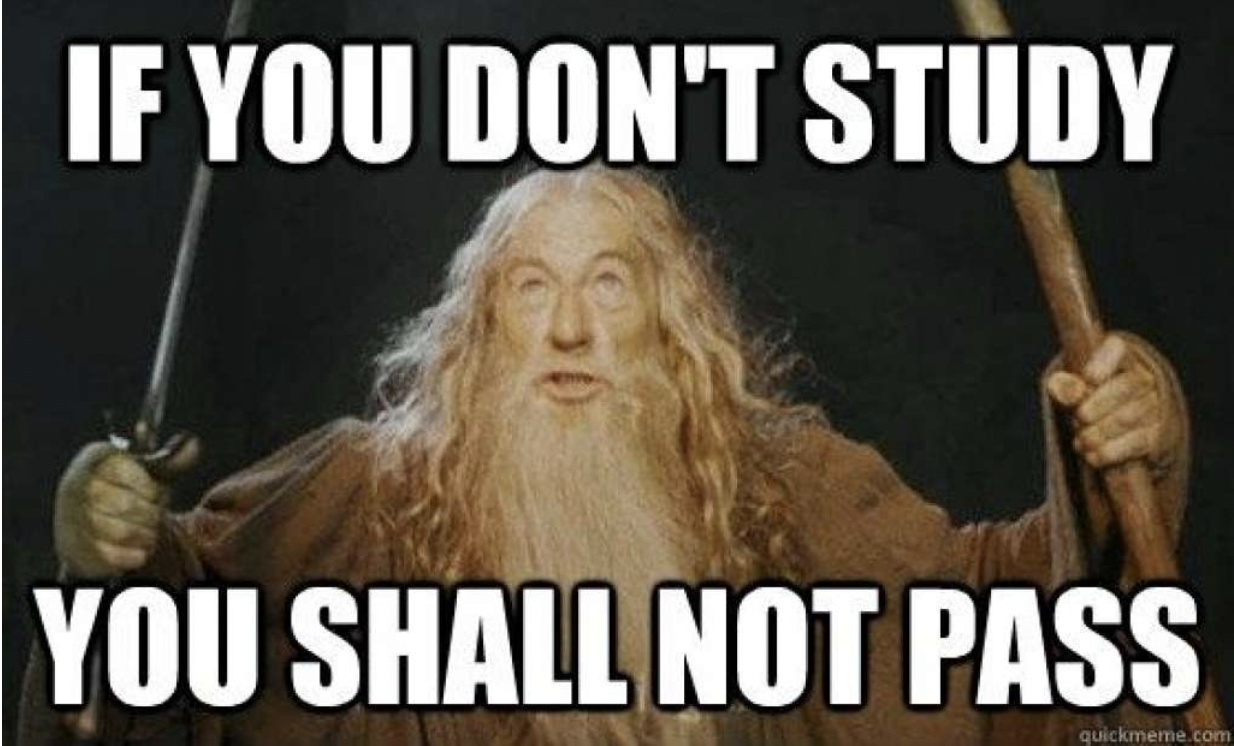
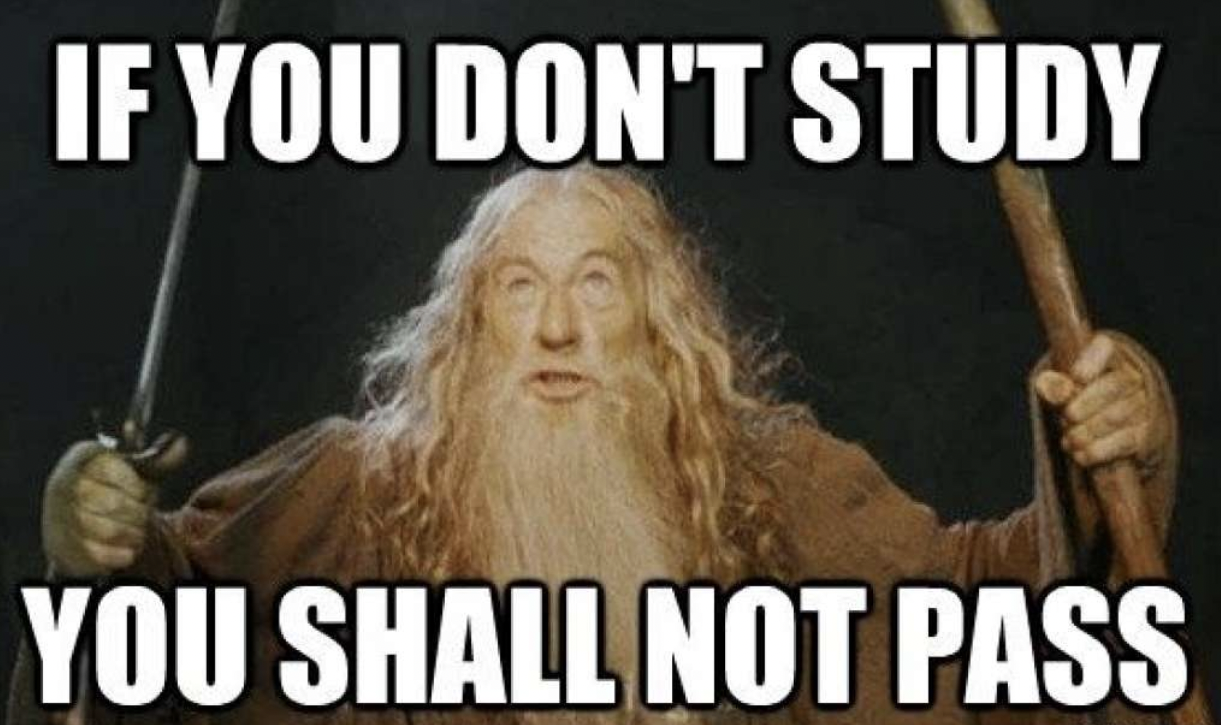
feat: add mobile version, fix animation and adaptive size img (Mon, Sep 02, 2024 19:40:55 PM)

Changed region(s): [[0.0, 0.0, 1.0, 1.0], [0.8714, 0.0607, 0.9025, 0.091], [0.8403, 0.3034, 0.8714, 0.3338]]

diff --git a/cssMemeSlider/index.js b/cssMemeSlider/index.js
@@ -23,20 +23,28 @@ const pagination = document.querySelector('.pagination');
 const btns = document.querySelectorAll('.btn');
 const classes = meme_image.classList;
 const classesText = text.classList;
+const img = document.querySelector('img');
 
-meme_image.classList.add(images[0].name);
 text.textContent = images[0].text;
 
 pagination.addEventListener('click', (e) => {  
   for (let key in Object.keys(btns)) {
+    if (btns[key].classList.contains('btn-active')) {
+      btns[key].classList.remove('btn-active');
+    }
+
     if (btns[key] === e.target || e.target.closest('.btn') === btns[key]) {
-      meme_image.classList.remove(classes[1]);
       text.classList.add('clear-anim');
-      meme_image.classList.add(images[key].name);
+      btns[key].classList.add('btn-active');
+      img.classList.add('clear-anim');
       setTimeout(() => {
-        text.classList.remove('clear-anim'),
+        img.src = '../cssMemeSlider/assets/img/' + images[key].name + '.png';
+        img.alt = images[key].name;
+        text.classList.remove('clear-anim');
+        img.classList.remove('clear-anim');
         text.textContent = images[key].text;
       },400) 
     }
   }
 })
+

diff --git a/cssMemeSlider/style.css b/cssMemeSlider/style.css
@@ -10,12 +10,11 @@ body {
 }
 
 .meme-image {
-  height: 70vh;
-  margin-bottom: 30px;
+  width: 100%;
+  max-height: 70vh;
+  display: flex;
+  margin: 0 auto 20px;
   border-radius: 10px;
-  background-repeat: no-repeat;
-  background-size: contain;
-  background-position: center;
   transition: .5s;
 }
 
@@ -62,23 +61,6 @@ body {
   background-color: rgb(43, 40, 40);
 }
 
-
-.first {
-  background-image: url('assets/img/first.png');
-}
-
-.second {
-  background-image: url('assets/img/second.png');
-}
-
-.third {
-  background-image: url('assets/img/third.png');
-}
-
-.fourth {
-  background-image: url('assets/img/fourth.png');
-}
-
 .clear-anim {
   animation: clear-anim .5s;
 }
@@ -86,4 +68,19 @@ body {
 @keyframes clear-anim {
   from{opacity: 1;}
   to{opacity: 0;}
+}
+
+@media (max-width:575px) {
+
+  .meme-image {
+    margin: 0 auto;
+  }
+  
+  .pag-container {
+    flex-direction: column-reverse;
+  }
+
+  .text {
+    align-self: flex-start;
+  }
 }

diff --git a/cssMemeSlider/index.html b/cssMemeSlider/index.html
@@ -7,7 +7,7 @@
   <title>cssMemeSlider</title>
 </head>
 <body>
-  <div class="meme-image"></div>
+    <img src="../cssMemeSlider/assets/img/first.png" alt="meme" class="meme-image">
   <div class="pag-container">
     <p class="text"></p>
     <ul class="pagination">
